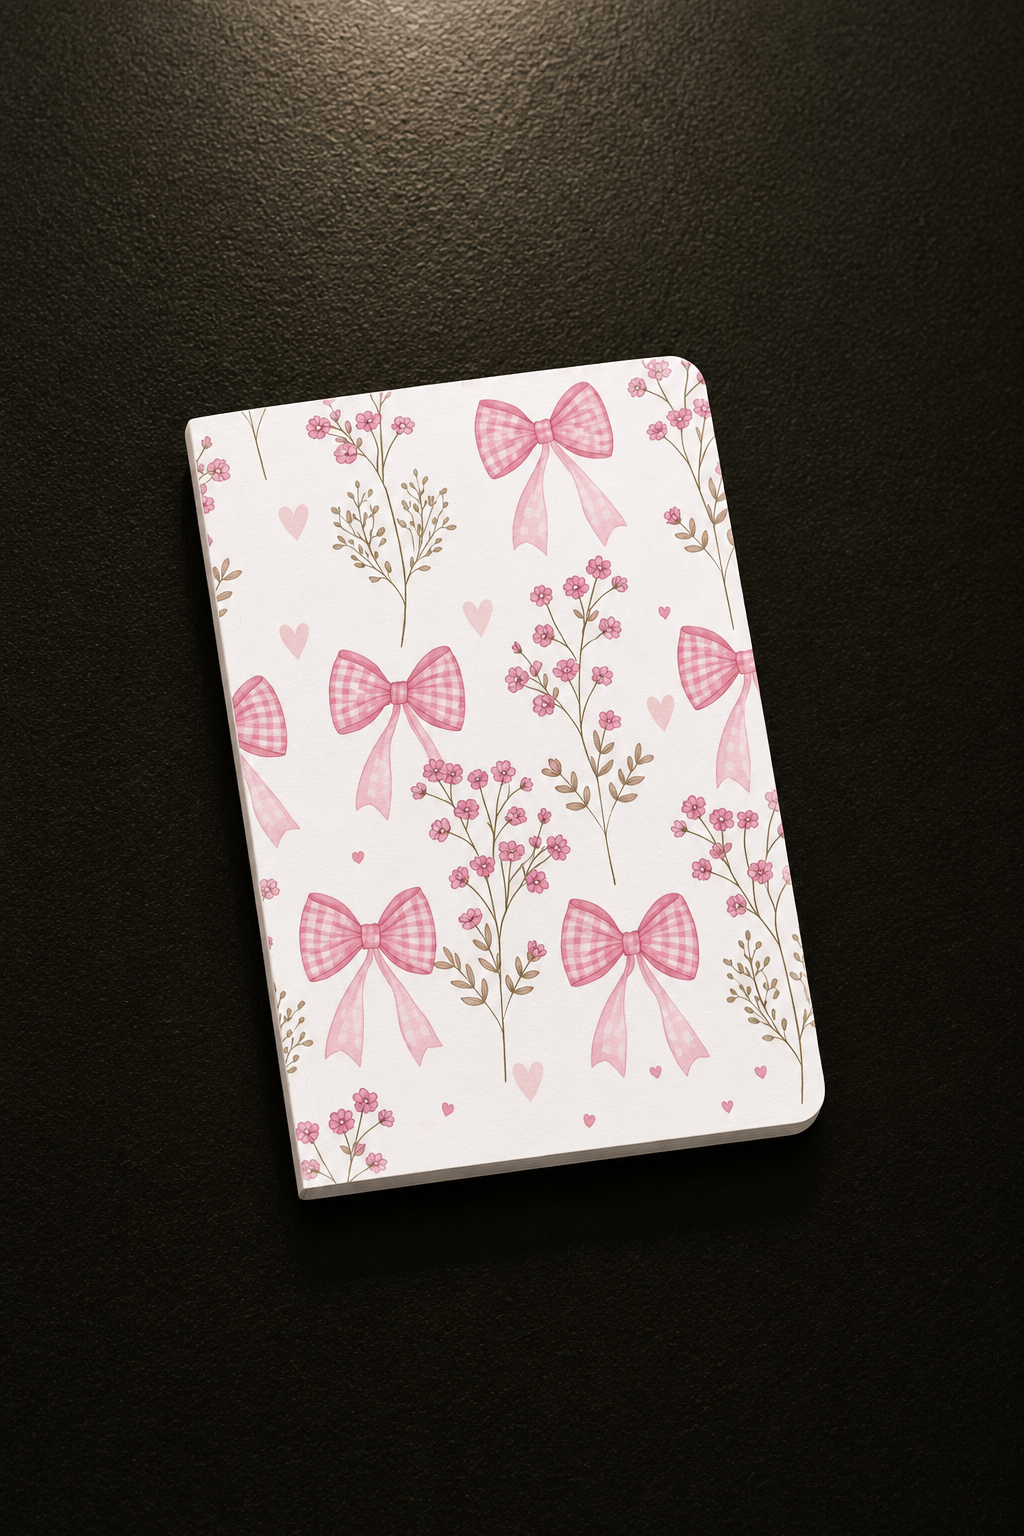
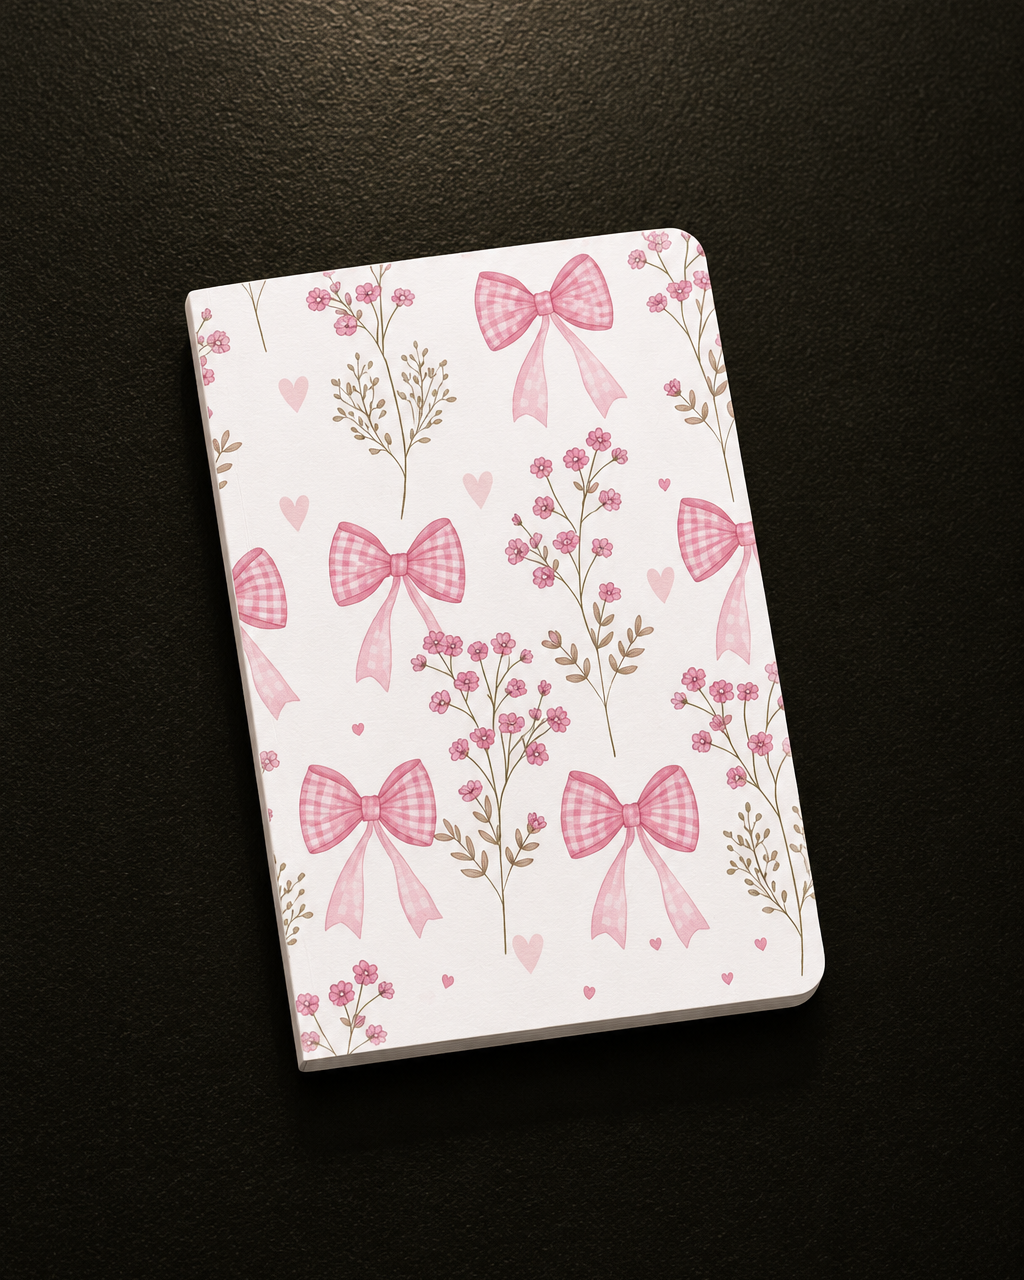
added journal

Changed region(s): [[0.0938, 0.0, 0.8125, 0.8438]]

diff --git a/src/App.jsx b/src/App.jsx
@@ -232,11 +232,16 @@ const CATEGORIES = [
       // { name: "Cheerful Cherry Notebook", price: 119,image:"/products/cherry.png",inStock: true },
       // { name: "Pastel Peach Notebook", price: 119,image:"/products/peach.png",inStock: true },
       // { name: "Fresh Strawberry Notebook", price: 119,image:"/products/strawberry.png",inStock: true },
+      { name: "Death Note Journal", price: 119,image:"/products/death-note.png",inStock: true },
+      { name: "Be Positive Journal", price: 119,image:"/products/Be-positive.png",inStock: true },
+      { name: "Believe In Yourself Journal", price: 119,image:"/products/believe-in.png",inStock: true },
+      { name: "Y2K Heartwave Journal", price: 119,image:"/products/heartwave.png",inStock: true },
+      { name: "You Can Do It Journal", price: 119,image:"/products/you-can.png",inStock: true },
       { name: "Sunflower and Bee Journal", price: 119,image:"/products/Sunflower_nb.png",inStock: true },
       { name: "Pink Bow Floral Journal", price: 119,image:"/products/Pinkbow_nb.png",inStock: true },
       { name: "Peaceful Pink Spiral Notepad", price: 99,image:"/products/peace_np.png",inStock: true },
       { name: "Mint Bloom Plant Spiral Notepad", price: 99,image:"/products/bloom_np.png",inStock: true },
-      { name: "Hug Me Cactus Notepad", price: 99,image:"/products/hugme_np.png",inStock: true },
+      { name: "Hug Me Cactus Spiral Notepad", price: 99,image:"/products/hugme_np.png",inStock: true },
       { name: "Grow Plant Spiral Notepad ", price: 99,image:"/products/grow_np.png",inStock: true },
     ],
   },
